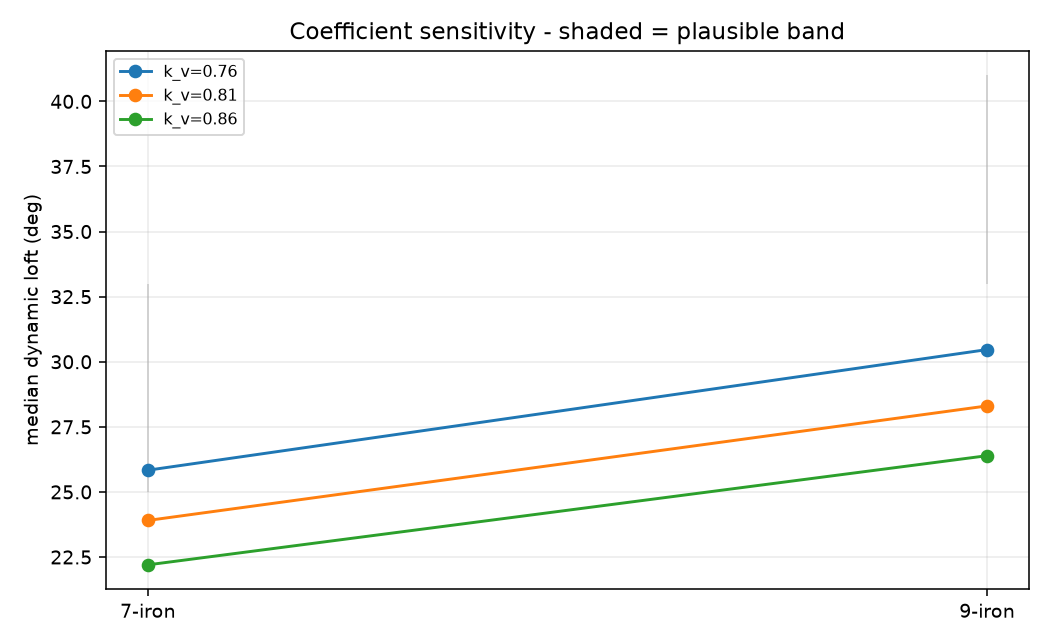
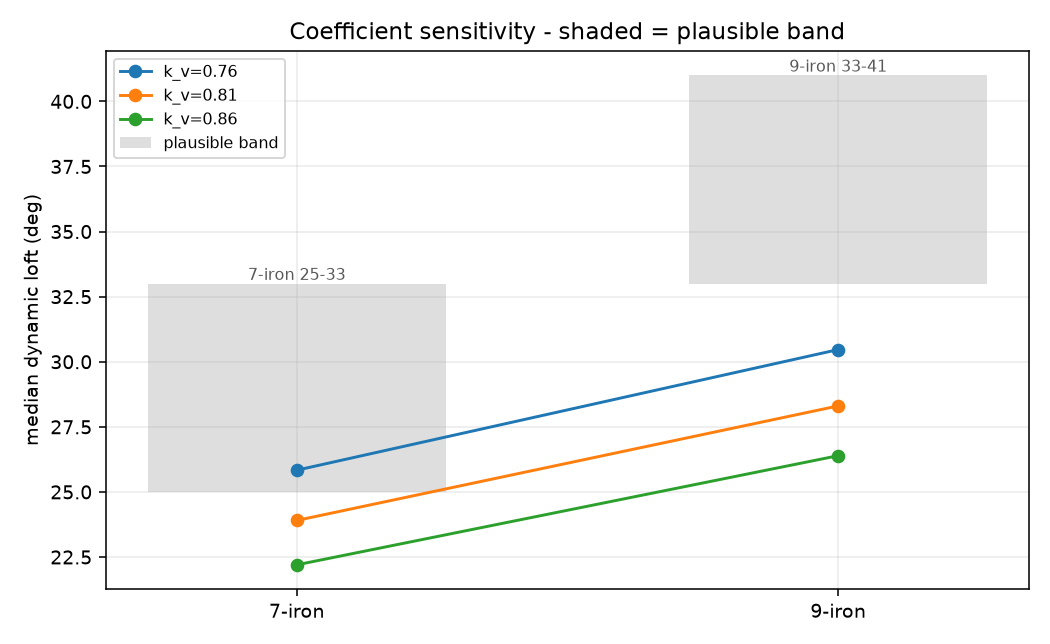
research(metrics): draw the plausible-loft bands as bands
fill_between over a categorical axis collapsed to a hairline, so the plot the
sanity check is supposed to illustrate showed no band at all. Drawn as bars:
only the 7-iron at k_v=0.76 reaches its band, and the 9-iron misses at every
coefficient in the sweep.

diff --git a/research/session_metrics/dplane_metrics.py b/research/session_metrics/dplane_metrics.py
@@ -418,8 +418,25 @@ def _plots(clean: list[dict[str, Any]], outliers: list[dict[str, Any]], out: Pat
             suffix_values.append(float(np.median(values)))
             labels.append(club)
         axis.plot(labels, suffix_values, marker="o", label=f"k_v={k_v}")
-    for low, high, club in ((25, 33, "7-iron"), (33, 41, "9-iron")):
-        axis.fill_between([club], [low], [high], color="0.85", zorder=0)
+    for index, (club, limits) in enumerate(SANITY.items()):
+        low, high = limits["dynamic_loft_deg"]
+        axis.bar(
+            index,
+            high - low,
+            bottom=low,
+            width=0.55,
+            color="0.87",
+            zorder=0,
+            label="plausible band" if index == 0 else None,
+        )
+        axis.annotate(
+            f"{club} {low:.0f}-{high:.0f}",
+            (index, high),
+            ha="center",
+            va="bottom",
+            fontsize=8,
+            color="0.35",
+        )
     axis.set_ylabel("median dynamic loft (deg)")
     axis.set_title("Coefficient sensitivity - shaded = plausible band")
     axis.grid(alpha=0.25)
